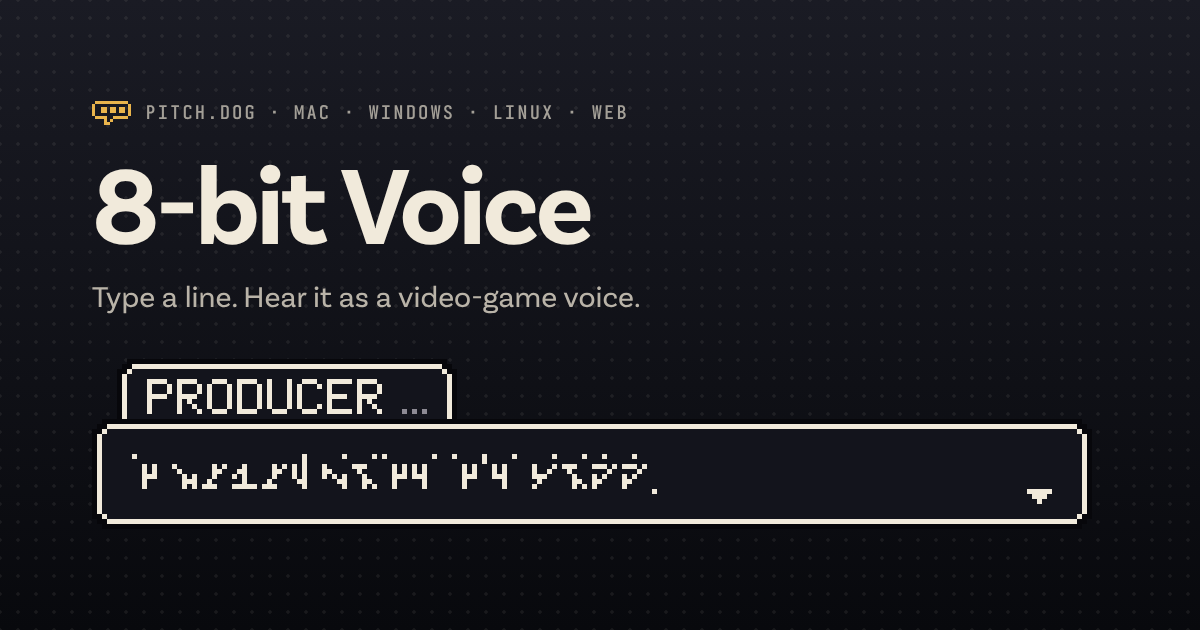
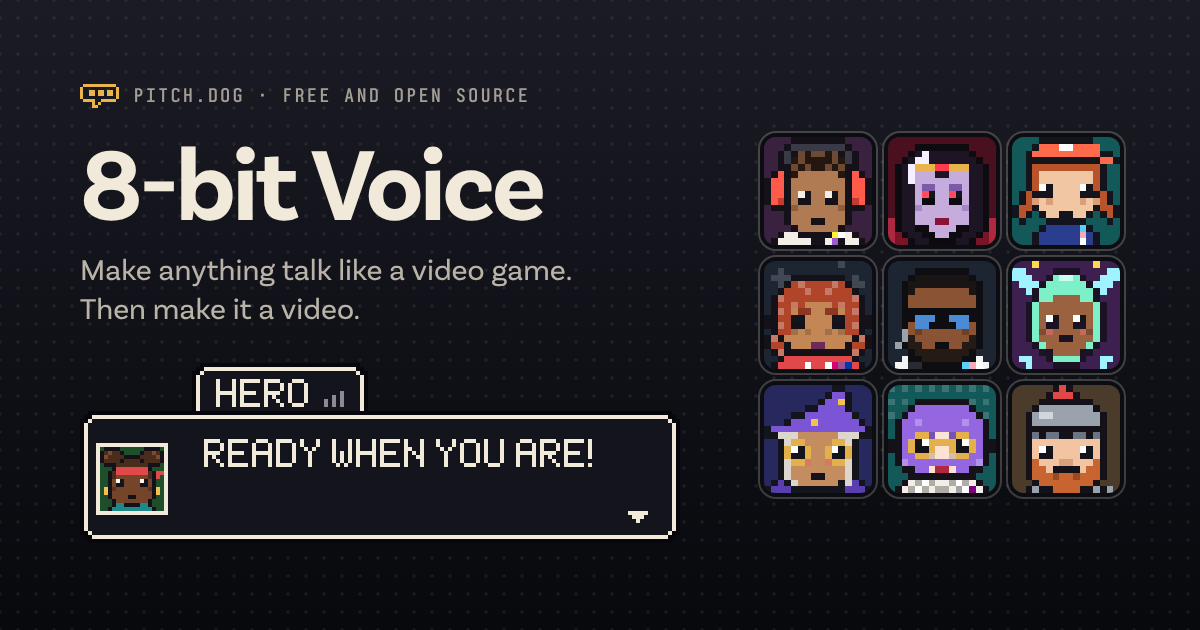
New link preview: the cast, two made characters and the hero's box
Claude-Session: https://claude.ai/code/session_01FRhNetMNXPUMbY5aWwDvU7

diff --git a/desktop/build/social.html b/desktop/build/social.html
@@ -1,7 +1,7 @@
 <!doctype html>
 <!-- The link preview image (icons/social.png, 1200×630). Rendered from this
-     page with a headless browser at 1200×630; see README › Building. It uses
-     the app's own engine to draw the dialogue box, so it matches the app. -->
+     page with a headless browser at 1200×630. It uses the app's own engine
+     to draw the faces and the dialogue box, so it matches the app. -->
 <html><head><meta charset="utf-8">
 <style>
   @font-face { font-family: "PD Body"; src: url("../../fonts/pd-body.woff2") format("woff2"); font-weight: 100 900; }
@@ -12,20 +12,25 @@
     background-image: radial-gradient(rgba(241, 234, 219, 0.075) 1.5px, transparent 1.8px), linear-gradient(#1a1b24, #08090d);
     background-size: 18px 18px, 100% 100%; background-position: 9px 9px, 0 0;
     color: #f1eadb; font-family: "PD Body", sans-serif; -webkit-font-smoothing: antialiased;
-    display: grid; grid-template-columns: 1fr; align-content: center; padding: 0 92px; box-sizing: border-box;
+    display: grid; grid-template-columns: 1fr auto; align-items: center; gap: 56px; padding: 0 80px; box-sizing: border-box;
   }
+  .cast { display: grid; grid-template-columns: repeat(3, 108px); gap: 16px; }
+  .cast canvas { width: 108px; height: 108px; image-rendering: pixelated; border-radius: 12px; box-shadow: 0 0 0 4px #0c0d12, 0 0 0 6px rgba(241, 234, 219, 0.22); }
   .eyebrow { font: 600 20px/1 "PD Eyebrow", monospace; letter-spacing: 0.08em; text-transform: uppercase; color: #a39f97; display: flex; align-items: center; gap: 14px; }
   .eyebrow canvas { image-rendering: pixelated; }
-  h1 { margin: 22px 0 0; font: 700 112px/0.95 "PD Body"; letter-spacing: -0.035em; }
-  p { margin: 22px 0 0; font: 400 30px/1.35 "PD Body"; color: #b9b3a8; max-width: 22em; }
-  #box { margin-top: 44px; image-rendering: pixelated; }
+  h1 { margin: 22px 0 0; font: 700 104px/0.95 "PD Body"; letter-spacing: -0.035em; }
+  p { margin: 20px 0 0; font: 400 30px/1.3 "PD Body"; color: #b9b3a8; max-width: 17em; }
+  #box { margin-top: 36px; image-rendering: pixelated; }
   .gold { color: #e9b44c; }
 </style></head>
 <body>
-  <div class="eyebrow"><canvas id="mark"></canvas><span>pitch.dog · Mac · Windows · Linux · Web</span></div>
-  <h1>8-bit Voice</h1>
-  <p>Type a line. Hear it as a video-game voice.</p>
-  <canvas id="box"></canvas>
+  <div>
+    <div class="eyebrow"><canvas id="mark"></canvas><span>pitch.dog · free and open source</span></div>
+    <h1>8-bit Voice</h1>
+    <p>Make anything talk like a video game. Then make it a video.</p>
+    <canvas id="box"></canvas>
+  </div>
+  <div class="cast" id="cast"></div>
 <script src="../../chipvoice.js"></script>
 <script>
   const CV = window.ChipVoice;
@@ -34,9 +39,17 @@
   mark.width = 13 * 3; mark.height = 8 * 3;
   const m = mark.getContext('2d'); m.fillStyle = '#e9b44c';
   rows.forEach((r, y) => { for (let x = 0; x < r.length; x++) if (r[x] === '#') m.fillRect(x * 3, y * 3, 3, 3); });
-  const o = { text: 'I never said I’d call.', speaker: 'PRODUCER', script: 'alien', width: 200, lines: 1, theme: 'ink' };
+  const o = { text: 'Ready when you are!', speaker: 'HERO', script: 'latin', width: 150, lines: 1, theme: 'ink', portrait: { face: 'hero' } };
   const M = CV.measureDialog(o);
-  const s = 5, cv = document.getElementById('box');
+  const s = 4, cv = document.getElementById('box');
+  // a few of the cast, and two made in the character creator
+  const faces = ['narrator', 'villain', 'sidekick', CV.buildFace(CV.randomLook('social-1')), 'agent', 'fairy', 'wizard', CV.buildFace(CV.randomLook('social-7')), 'guard'];
+  for (const f of faces) {
+    const c = document.createElement('canvas');
+    c.width = c.height = 16;
+    CV.drawFace(c.getContext('2d'), f, 0, 0, {});
+    document.getElementById('cast').appendChild(c);
+  }
   cv.width = M.width * s; cv.height = M.height * s;
   const ctx = cv.getContext('2d'); ctx.imageSmoothingEnabled = false; ctx.setTransform(s, 0, 0, s, 0, 0);
   CV.drawDialog(ctx, Object.assign(o, { cursor: true, level: 0 }));
